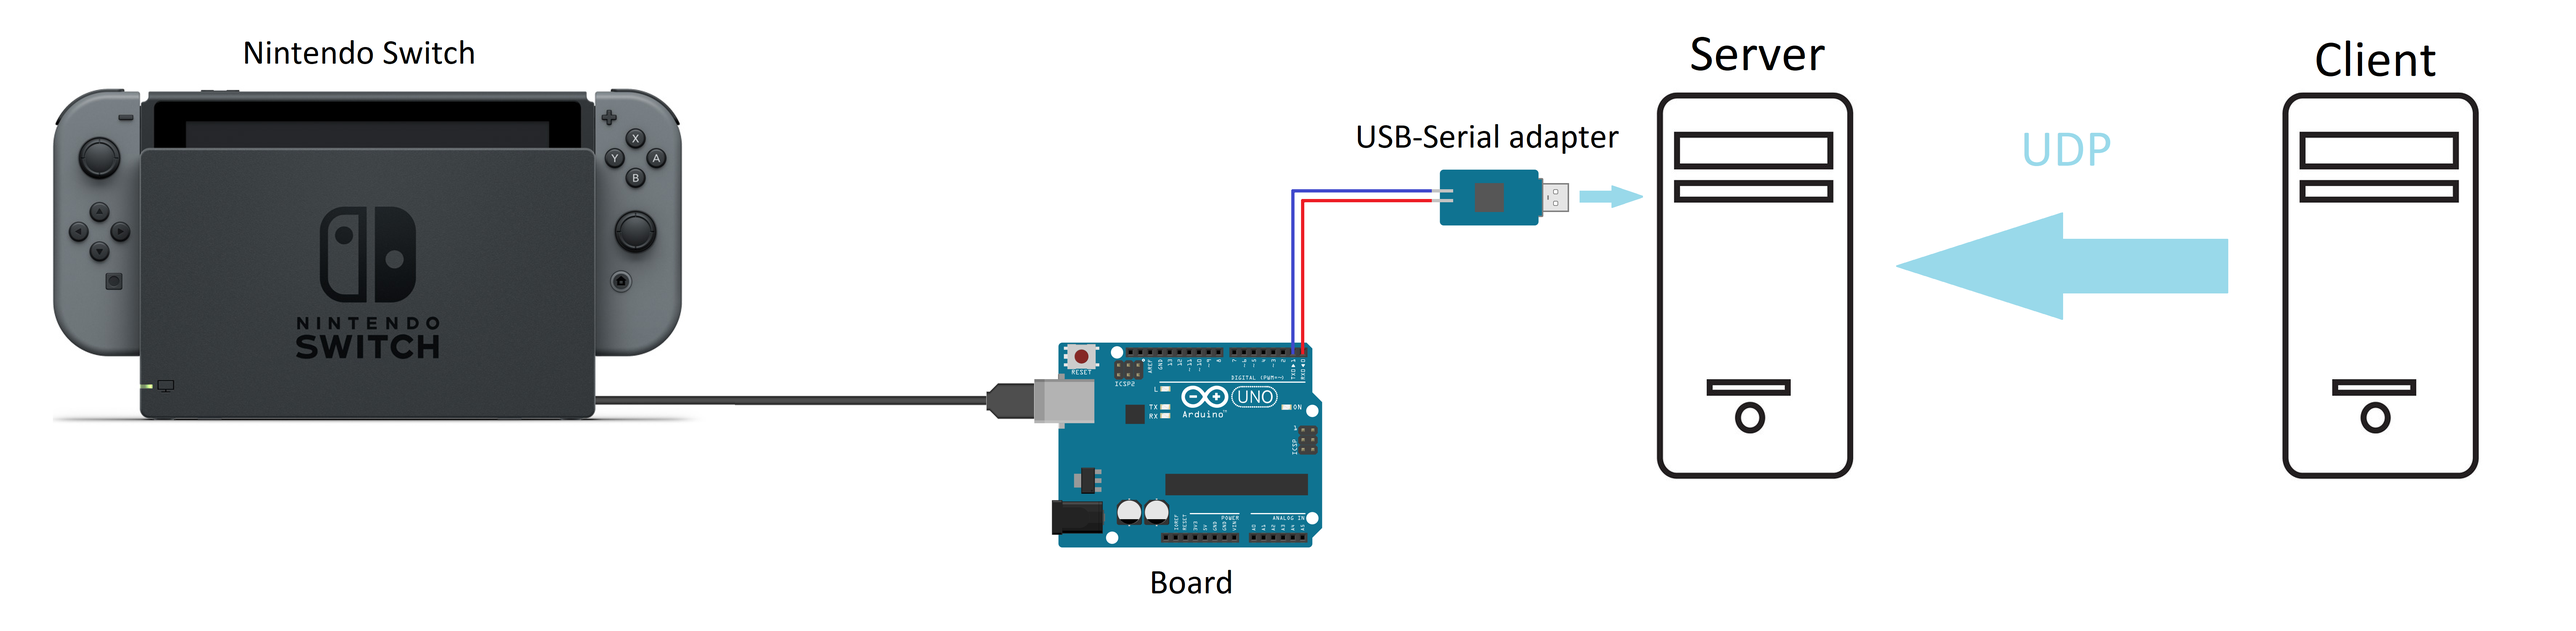
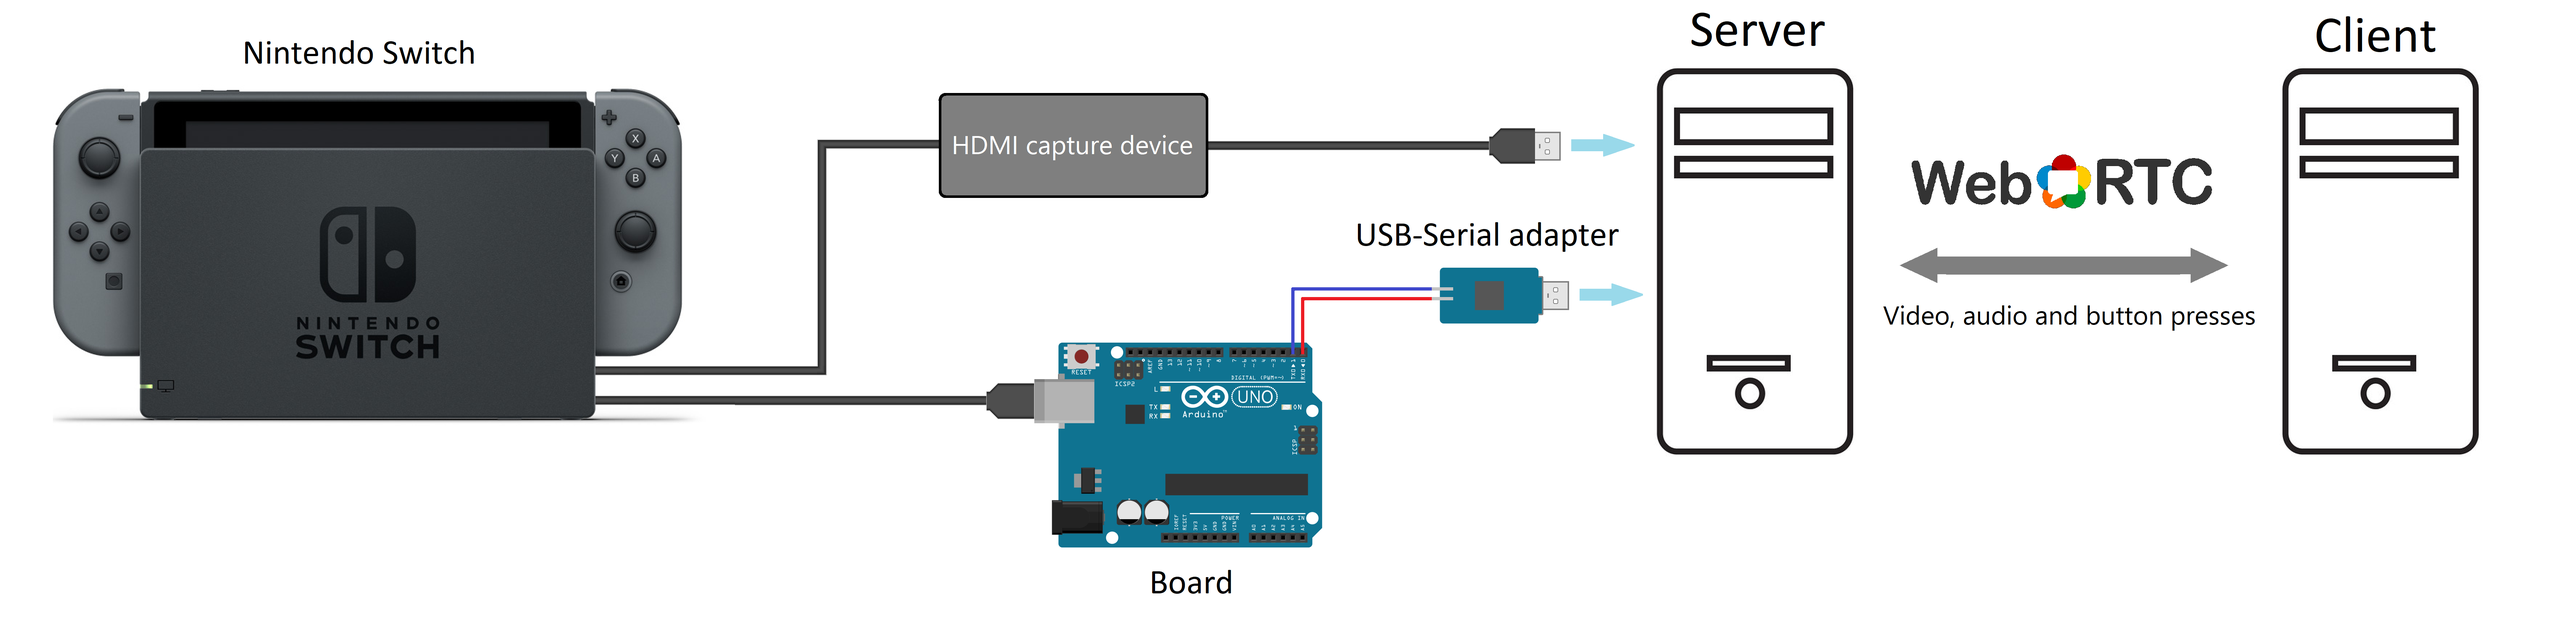
Updated README and images to reflect new changes

diff --git a/README.md b/README.md
@@ -8,15 +8,17 @@ Remote control for the Nintendo Switch via UDP or with a single computer. **Pro 
 This project uses the LUFA library and reverse-engineering of the Pro Controller for Nintendo Switch for remote control of the console. It consists on three main parts:
 * GUI: Java project with two programs, client and server.
 
-  The client takes input from a real controller, keyboard or a Discord bot and sends it to the server over UDP.
-  
+  The client takes input from a real controller, keyboard or a Discord bot and sends it to the server over WebRTC.
+
   The server receives the input and sends it to an AVR microcontroller which acts as a controller. The MCU is plugged into the Switch dock and the console recognizes it as a Pro Controller. If you have a USB-C adapter, you should also be able to use this in handheld mode/Switch Lite.
-  
+
+  Finally, the server sends a real-time video and audio stream acquired from an HDMI capture card.
+
 * Firmware: firmware that runs on the microcontroller. The server PC sends the received commands to the microcontroller via UART. When the Switch requests HID reports, the microcontroller sends them. It uses the LUFA library.
 
 * Small Python code for fast prototyping (`python` folder).
 
-The goal of this project is to provide a way to play Switch games remotely (two computers) or control the console locally (one computer). Keep in mind this project doesn't include any video streaming service.
+The goal of this project is to provide a way to play Switch games remotely (two computers) or control the console locally (one computer).
 
 A complete diagram is shown below:
 ![Hardware diagram](/images/diagram.png)
@@ -24,13 +26,15 @@ A complete diagram is shown below:
 __NOTE__: if you're using a FTDI-based serial adapter, yo need to [reduce the latency timer value](https://projectgus.com/2011/10/notes-on-ftdi-latency-with-arduino/).
 
 Additional information can be found on the specific README files.
-* The [README](/gui/README.md) inside the `gui` folder contains information about the Java project, required setup and steps, and instructions for configuring a Discord bot.
+* The [README](/gui/README.md) inside the `gui` folder contains information about the Java project, required setup and steps, known issues and instructions for configuring a Discord bot.
 
 * Inside `firmware` folder [there are](/firmware/README.md) instructions for compiling and flashing the firmware for different boards, as well as a list of changes made to the original code.
 
 ### Prerequisites
 * A LUFA-compatible microcontroller such as the Teensy 2.0++, Arduino UNO R3, or the Arduino Micro
 * A USB-to-UART (TTL) adapter. Popular ones are based on FTDI and CH340 chip. Can be easily found online.
+* An HDMI capture card compatible with `libuvc` (in general, any with USB output). Device quality can dramatically affect streaming performance.
+* A deployed [signaling server](https://github.com/javmarina/Switch-Signaling-Server).
 * A PC with Java and JDK installed.
 
 ### TODO list
@@ -45,7 +49,8 @@ List of things that I might do in the future, no guarantee. Pull requests are we
 
 ### Acknowledgments
 
-* __mzyy94__ for its [work](https://mzyy94.com/blog/2020/03/20/nintendo-switch-pro-controller-usb-gadget/) on Pro Controller emulation using a Raspberry Pi.
+* __devopvoid__ for his work on the [webrtc-java](https://github.com/devopvoid/webrtc-java) project.
+* __mzyy94__ for his [work](https://mzyy94.com/blog/2020/03/20/nintendo-switch-pro-controller-usb-gadget/) on Pro Controller emulation using a Raspberry Pi.
 * __wchill__ for the [SwitchInputEmulator](https://github.com/wchill/SwitchInputEmulator) project. My firmware was initially based on his work.
 * __progmem__ for the [Switch-Fightstick](https://github.com/progmem/Switch-Fightstick) repository, which itself is the base of __wchill__ work and created the opportunity to control the Switch with a LUFA-compatible MCU.
 * __ItsDeidara__ author of the [CommunityController](https://github.com/ItsDeidara/CommunityController) repository and host of the namesake Twitch [channel](https://www.twitch.tv/communitycontroller). Gave some tips for hardware configuration and some of the serial port code is based on his work.

diff --git a/gui/README.md b/gui/README.md
@@ -1,24 +1,35 @@
 # Introduction
 
-This Java project contains a client and server module, which can be compiled, and a third 'util' module that acts as a dependency of the other two. I used IntelliJ Idea.
+This Java project contains a client and server module, which can be compiled, and additional utility modules: 'util' module that acts as a dependency of the other two and the 'WebRTC' module with WebRTC-specific code. I used IntelliJ Idea.
 
-In order to use this project, you need both `client.jar` and `server.jar`. You can download them [here](https://github.com/javmarina/Nintendo-Switch-Remote-Control/releases/tag/latest). If you want to manually build the code for yourself, just run `gradle buildAll` and both JARs will appear in the root folder.
+In order to use this project, you need both `client.jar` and `server.jar`. You can download them [here](https://github.com/javmarina/Nintendo-Switch-Remote-Control/releases/tag/latest), but note that they are compiled so that both programs use a signaling server running locally in port 3000.
+
+If you want to play remotely, you will need to deploy the signaling server to the cloud. The signaling server code is available [here](https://github.com/javmarina/Switch-Signaling-Server). When deployed, annotate the address, write it to the `SIGNALING_SERVER` in [SignalingPeer.java](https://github.com/javmarina/Nintendo-Switch-Remote-Control/blob/master/gui/WebRTC/src/main/java/com/javmarina/webrtc/signaling/SignalingPeer.java), and compile by running `gradle buildAll`. Both JARs will appear in the root folder.
 
 The [Jamepad](https://github.com/williamahartman/Jamepad) library is used for reading controller input. The Discord bot is implemented using [Discord4J](https://github.com/Discord4J/Discord4J).
 
-Note that the server and client can run on the same PC. In that case, use `localhost` as the server address.
+Note that the server and client can run on the same PC.
+
+# Known issues
+
+- Audio device selection doesn't work. Regardless of the device you choose for audio capture (server side) and audio playback (client side), the first device that appears in the list will be selected. This issue is confirmed in Windows, don't know about other platforms.
+- When a connection (session) is finished, both the client and server programs have to be restarted in order to connect again. Connection will refuse if programs are not closed before.
 
 # Instructions
 
 Please follow the instructions in the exact same order as below.
- 1. Turn on Switch and the computers that will run the server and the client. Can be the same one if using 'localhost' as address.
+ 1. Turn on Switch and the computers that will run the server and the client. Can be the same PC.
  2. Connect the Arduino/Teensy board to the serial adapter. Note that RX->RX and TX->TX (not the other way around). Also connect VCC to 5V and GND.
  3. Connect USB side of the serial adapter to the server computer.
  4. Connect Arduino/Teensy board to Switch via USB A to B cable.
- 5. Open server program, configure port and serial baudrate, and wait for the MCU to sync.
- 6. Open client program, configure address, port and service (controller, keyboard, Discord) and start connection.
+ 5. Open server program, configure options and click on "Open server". Note the session ID and wait for the MCU to sync.
+ 6. Open client program, configure options (particularly, write the same session ID), and click on "Start". Connection should be established soon.
  
 If you can't get the setup running, [this issue](https://github.com/javmarina/Nintendo-Switch-Remote-Control/issues/2) might be helpful. Remember to set the correct baudrate for serial communication, which is 1 Mbps by default and is saved inside the compiled firmware. You can edit `BAUD` in [avr.h](/firmware/include/avr.h), recompile and reflash.
+
+# Signaling server
+
+Right now, no real signaling server is provided by default. You have to deploy and host your own one. If you use the provided JARs, a server must be running locally.
 
 # Discord bot configuration
  
